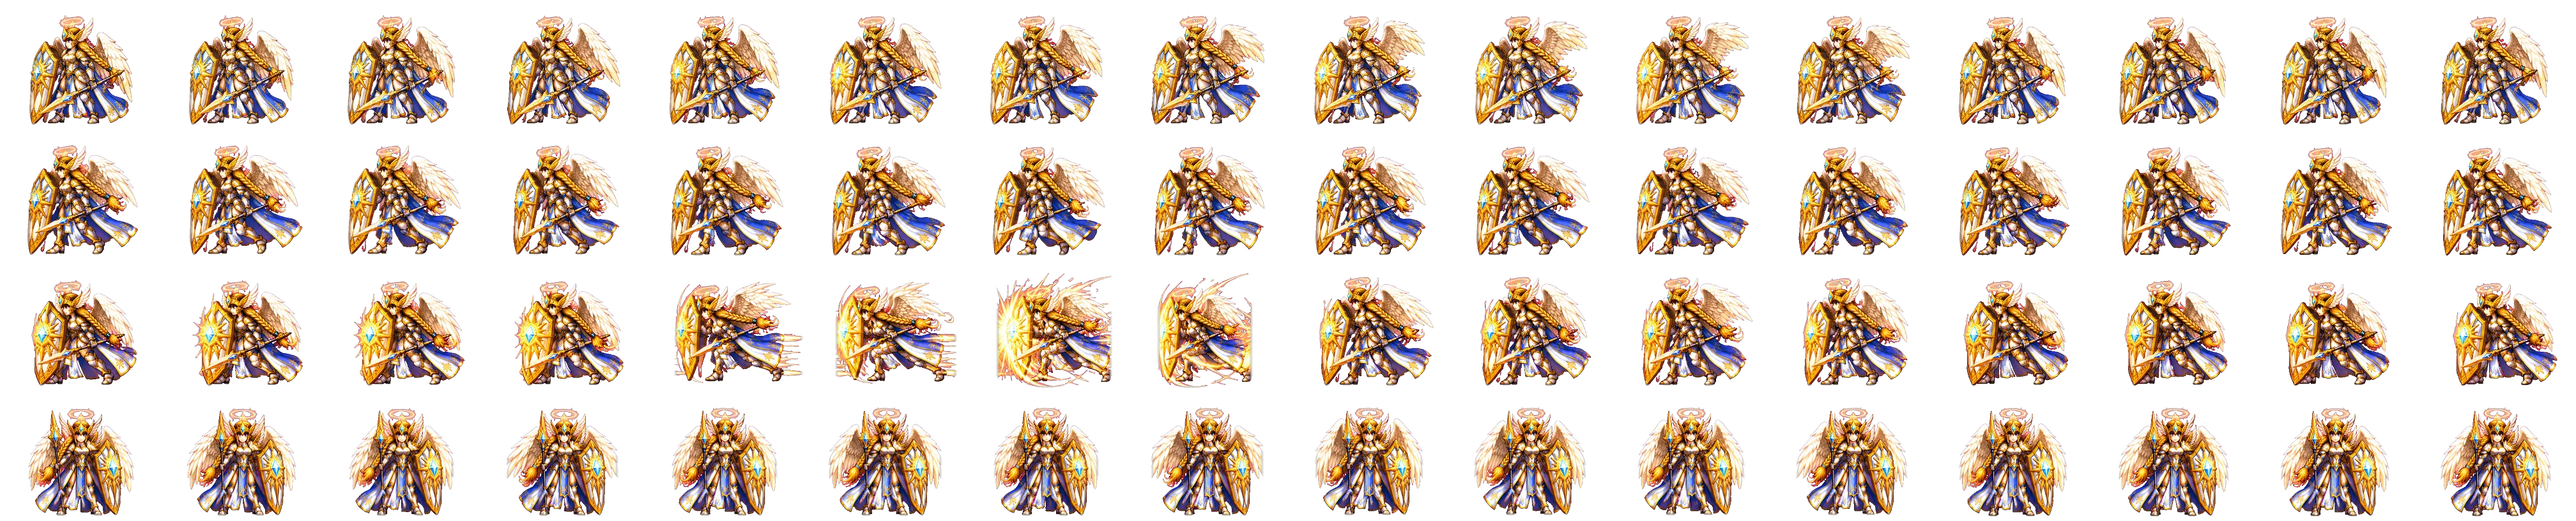
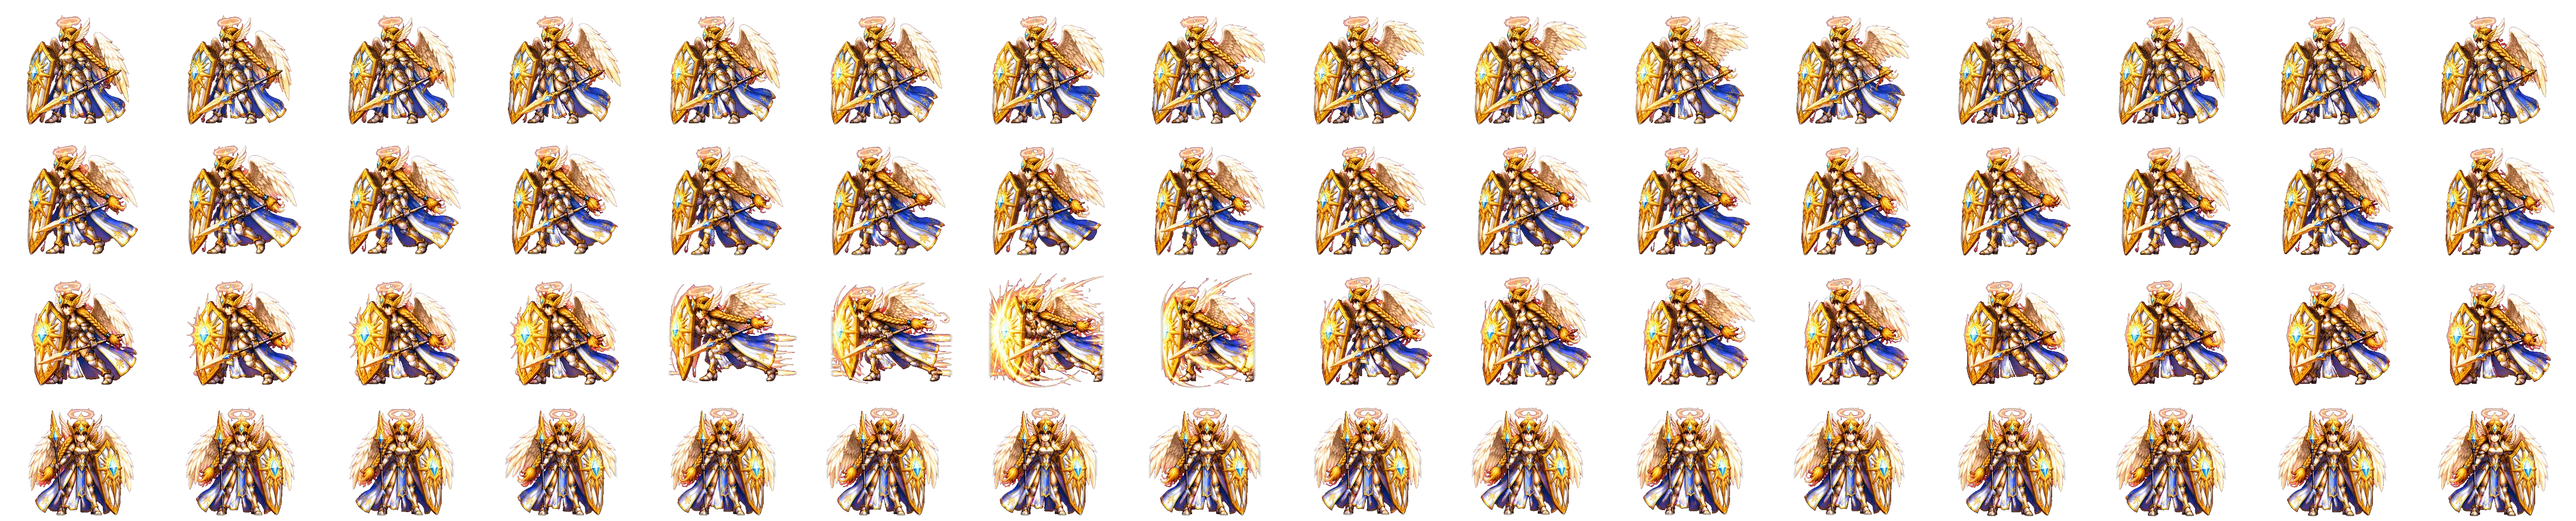
r16 (not live): batch 2 models h03 h22 h07 h18; frame alignment in r16sheet
Claude-Session: https://claude.ai/code/session_01Bp1sPxqqDbGY3tv9tHr9QV

diff --git a/tools/r16sheet.py b/tools/r16sheet.py
@@ -10,7 +10,7 @@ from scipy import ndimage as nd
 P='/home/claude/r16/';U=P+'tools/r16_in/'
 src=open(P+'tools/monsheet2.py').read().split("TINT={")[0];ns={};exec(src,ns);key=ns['key']
 CW,CH,BASE=252,204,196
-CARDS={'h29':('SL',158),'h30':('SL',176),'h31':('SL',160),'h27':('SL',170)}
+CARDS={'h29':('SL',158),'h30':('SL',176),'h31':('SL',160),'h27':('SL',170),'h03':('SL',166),'h22':('SL',160),'h07':('SL',160),'h18':('LT',178)}
 FIX={'h30':{'idle':{1:0,3:4}}}   # 0-based frames to replace with another frame (glitched faces)
 def depink(rgba):
     a=rgba.astype(int);r,g,b=a[...,0],a[...,1],a[...,2]
@@ -58,18 +58,36 @@ def build(id,th):
     out=Image.new('RGBA',(CW*16,CH*4),(0,0,0,0));clip=0
     for R,fr in enumerate(rows):
         s=fsc if R==3 else side
-        # one horizontal offset for the whole row (frame 1's torso to the middle), so a lunge still moves forward;
-        # one vertical offset per GPT row band (its median feet on the floor line), since GPT rows are not evenly placed
-        dx=CW/2-torso(fr[0][1])*s
+        # vertical: one offset per GPT row band (its median feet on the floor line), since GPT rows are not evenly placed.
+        # horizontal: frame 1 centred on its torso; every later frame slid (within +-40px) to overlap the frame before it best,
+        # on the whole body for idle / walk / front and on the feet only for the attack (so a lunge still reaches forward).
         feet={}
         for g,c in fr:feet.setdefault(g,[]).append(bbox(c)[3])
+        ims=[];prev=None
         for k,(g,c) in enumerate(fr):
             im=Image.fromarray(c,'RGBA').resize((max(1,round(c.shape[1]*s)),max(1,round(c.shape[0]*s))),Image.LANCZOS)
-            ox=round(dx) if R!=2 else round(dx+(c.shape[1]/2-fr[0][1].shape[1]/2)*0);oy=round(BASE-(np.median(feet[g])+1)*s)
-            if R!=2:ox=round(CW/2-torso(c)*s)   # idle / walk / front stand in place: every frame centred on its own torso
+            oy=round(BASE-(np.median(feet[g])+1)*s);ox=round(CW/2-torso(c)*s)
+            def cellmask(o):
+                t=Image.new('RGBA',(CW+120,CH),(0,0,0,0));t.paste(im,(o+60,oy),im);m=np.asarray(t)[...,3]>60
+                return m[int(CH*.68):] if R==2 else m
+            if prev is not None:
+                best=None
+                for d in range(-40,41,2):
+                    m=cellmask(ox+d);sc=(m&prev).sum()/max(1,(m|prev).sum())
+                    if best is None or sc>best[0]:best=(sc,d)
+                ox+=best[1]
+            prev=cellmask(ox) if R!=2 or k==0 else prev   # attack: every frame matches frame 1's stance, so it never drifts
+            ims.append((im,ox,oy))
+        if R!=2:   # keep the loop centred: remove the average drift
+            m=round(np.mean([o+torso(c)*s for (o2,(_,o,_)),(g,c) in zip(enumerate(ims),fr) for o2 in [0]])-CW/2)
+            ims=[(im,o-m,y) for im,o,y in ims] if abs(m)>2 else ims
+        for k,(im,ox,oy) in enumerate(ims):
             clip=max(clip,-ox,ox+im.width-CW,-oy);t=Image.new('RGBA',(CW,CH),(0,0,0,0));t.paste(im,(ox,oy),im);out.paste(t,(k*CW,R*CH))
     out.save(P+f'spr/{id}.webp',quality=86,method=6);print(id,'scale %.2f front %.2f clipped %dpx'%(side,fsc,max(0,clip)),os.path.getsize(P+f'spr/{id}.webp')//1024,'KB')
 cs=open(P+'tools/cardsheet.py').read();cs=cs[cs.index('def faces('):cs.index('for id,(rank,th,_) in CARDS.items()')]
+# the art window is measured against the ORIGINAL finished cards (the live repo), never the remade ones; LT measured on Glacius Rex
+cs=cs.replace("P+f'cards/{o}.webp'","'/home/claude/pixeldeck/cards/'+o+'.webp'").replace("'SL':['h03','h22','h07']}","'SL':['h03','h22','h07'],'LT':['h28','h18']}")
+assert "/home/claude/pixeldeck/cards/" in cs and "'LT'" in cs
 fs={'np':np,'Image':Image,'nd':nd,'P':P,'U':'/tmp/claude-0/-home-claude/faf65de1-a492-52b3-8473-ee4e7e7dcc7a/scratchpad/r16art/','glob':glob};exec('from PIL import ImageEnhance\n'+cs,fs)
 os.makedirs('/tmp/claude-0/-home-claude/faf65de1-a492-52b3-8473-ee4e7e7dcc7a/scratchpad/r16art',exist_ok=True)
 for id,(rank,th) in CARDS.items():
